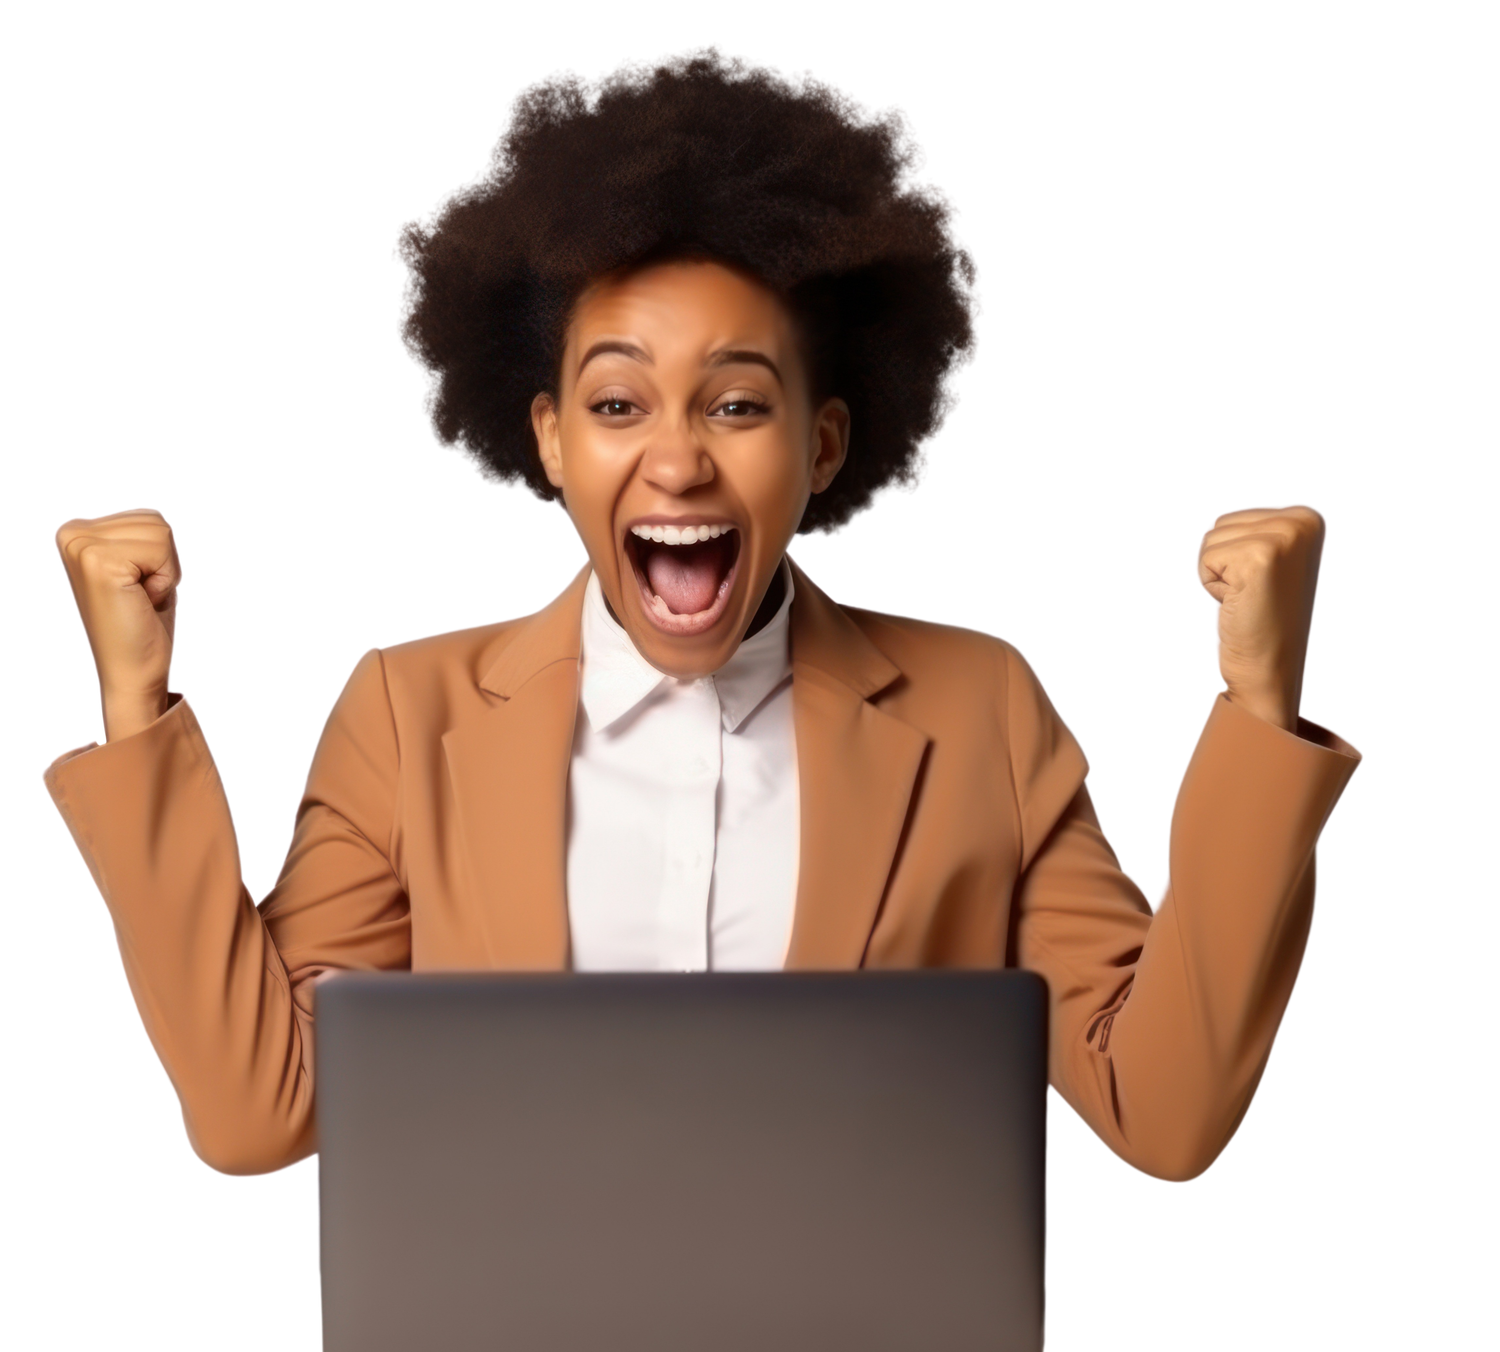
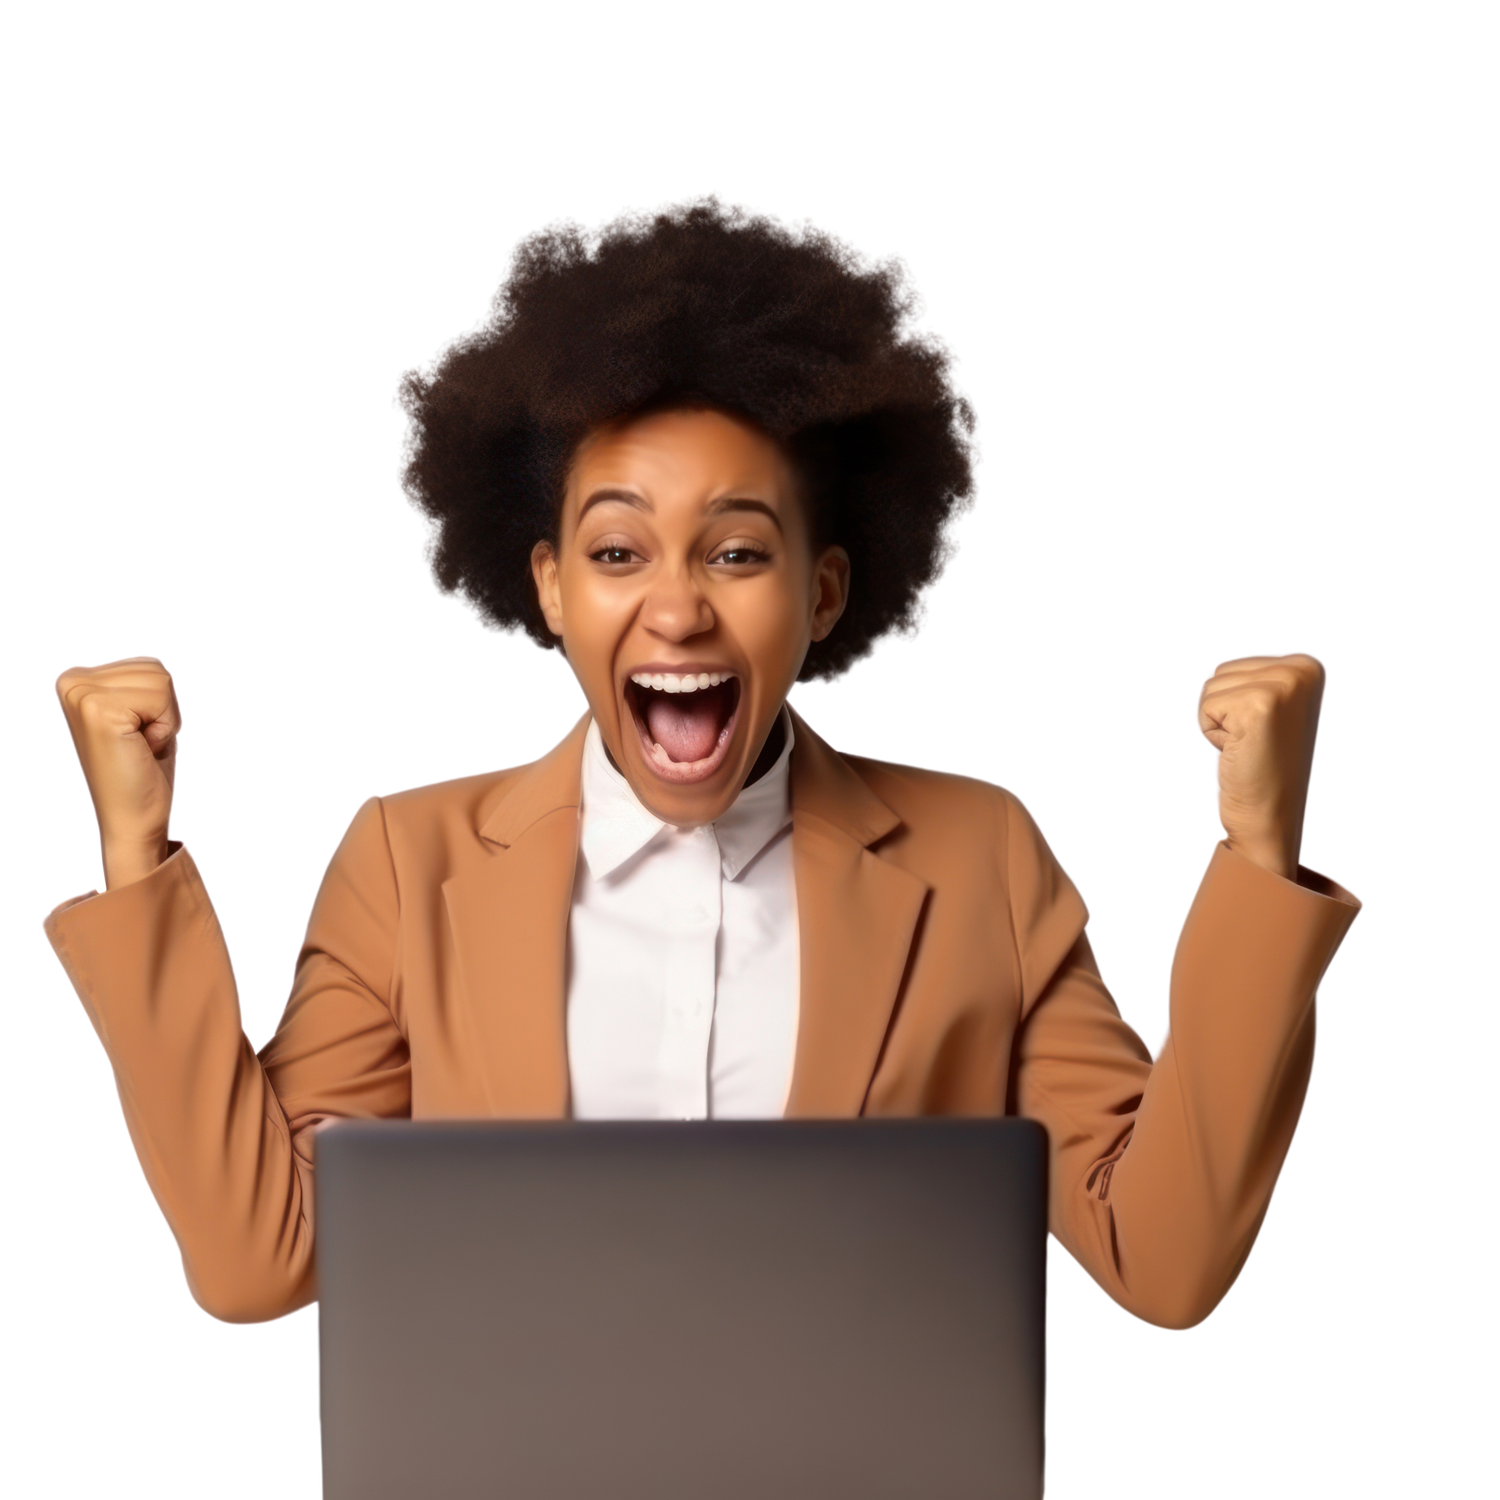
slider editing

Changed region(s): [[0.0307, 0.0311, 0.92, 0.9009]]

diff --git a/styles/responsive.css b/styles/responsive.css
@@ -197,9 +197,6 @@
 
   .pagesDropdown {
     display: none;
-    /* background: none;
-    position: unset;
-    margin-left: 30px; */
   }
 
   .pagesLi:hover > .pagesDropdown {
@@ -264,8 +261,8 @@
 
   .imgSlider img {
     top: 0;
-    max-width: 70%;
-    right: 15%;
+    max-width: 349px;
+    right: auto;
   }
 
   .sec1DownDiv {
@@ -395,6 +392,12 @@
   }
 }
 
+@media (max-width: 665px) {
+  .imgSlider img {
+    max-width: 314px;
+  }
+}
+
 @media (max-width: 600px) {
   .section1 {
     margin-top: 0;
@@ -491,6 +494,12 @@
   }
 }
 
+@media (max-width: 477px) {
+  .imgSlider img {
+    max-width: 277px;
+  }
+}
+
 @media (max-width: 470px) {
   .section3 h2 {
     font-size: 25px;
@@ -507,6 +516,12 @@
   }
   .section3 > div {
     margin-top: 10px;
+  }
+}
+
+@media (max-width: 408px) {
+  .imgSlider img {
+    max-width: 243px;
   }
 }
 
@@ -529,11 +544,6 @@
 
   .section1 {
     margin-top: 0;
-  }
-
-  .imgSlider img {
-    max-width: 85%;
-    right: 5%;
   }
 }
 

diff --git a/styles/main.css b/styles/main.css
@@ -328,14 +328,15 @@ main .content > div:first-child {
   position: absolute;
   width: 100%;
   height: auto;
+  top: 0;
 }
 
 .imgSlider img {
   position: absolute;
-  top: -223px;
-  right: 0;
+  right: 5%;
+  top: 0;
   width: 100%;
-  max-width: 563px;
+  max-width: 444px;
   transition: transform 0.5s ease-in-out, opacity 0.5s ease-in-out;
   opacity: 0;
   z-index: -1;
